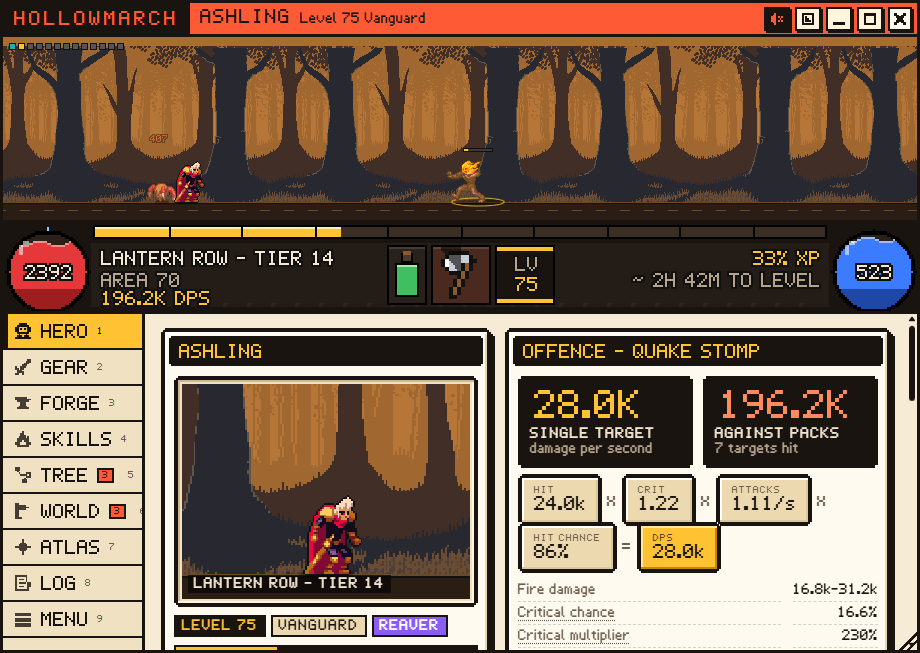
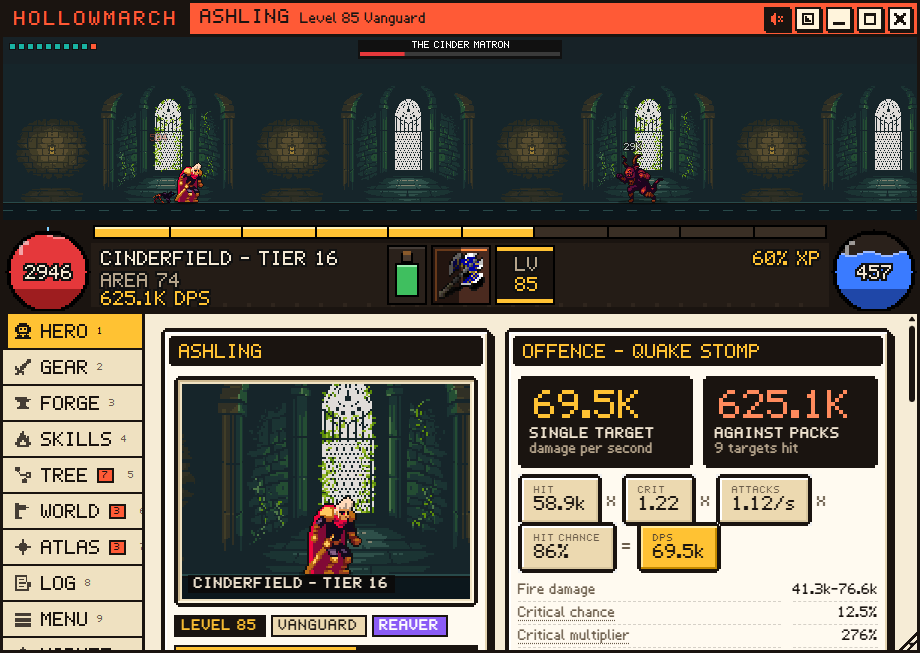
docs: round five shots in the READMEs (Market, sockets, echoes, the Rekindling; a Russian hero)
Taken from the shipped (minified) build in headless Chrome. The harness and
dev/play.html take ?shipped=1 to run that file; the arpg README says what the
build writes. A duplicated language bullet is gone.

diff --git a/dev/harness.html b/dev/harness.html
@@ -21,6 +21,7 @@
     ?noglyph=1      no orb glyph to borrow (the HUD falls back to its own diamond)
     ?pet=1          switch the Orbling addon on (view=addon:pet opens it); window.__orbling pokes its state
     ?arpg=1         switch Hollowmarch on (view=addon:arpg opens its card); loads ../arpg/dist/arpg.js
+    ?shipped=1      load the minified src/addons/arpg.js that ships with the agent instead
 -->
 <style>
   :root { --background-base-lower: #1e1f22; }
@@ -183,9 +184,9 @@
       const a = document.createElement("script");
       a.src = "../src/addons/pet.js";
       a.onload = () => {
-        // Built addons outside src/ (arpg/dist) load the same way the launcher's addons folder does.
+        // Hollowmarch: the readable build (arpg/dist), or with ?shipped=1 the minified copy in src/addons.
         const g = document.createElement("script");
-        g.src = "../arpg/dist/arpg.js";
+        g.src = qs.get("shipped") ? "../src/addons/arpg.js" : "../arpg/dist/arpg.js";
         const done = () => {
           const view = qs.get("view");
           if (view) setTimeout(() => window.__questAgent?.ui?.show(view), 300);

diff --git a/arpg/README.md b/arpg/README.md
@@ -34,8 +34,6 @@ It has nothing to do with quests: it never reads quest data or orbs.
   Wandering Market (a Pedlar and a Jeweller with stock that rotates).
 - An ending: twelve echoes of the day the sun fell, three sun shards, and the
   Rekindling - relight the sun and start a new dawn, keeping the collection.
-- English, Russian and Ukrainian (the hub's language), in a pixel font with
-  Cyrillic.
 - A 129-node passive tree with keystones.
 - Endgame: maps tier 1-16 with mods, the endless Depths past tier 16, an
   atlas tree and four pinnacle bosses.
@@ -43,6 +41,13 @@ It has nothing to do with quests: it never reads quest data or orbs.
   comes from), compare deltas on every item and support.
 - English, Russian and Ukrainian, everything included (story, items, the
   chronicle, the pixel font's Cyrillic); it follows Quest Agent's language.
+
+<p align="center">
+  <img src="docs/shots/12-market.png" width="420" alt="The Wandering Market: the Pedlar's gear for your weakest slots, the Jeweller's stones, a rotation timer">
+  <img src="docs/shots/13-sockets.png" width="420" alt="The Forge with a socketed weapon on the anvil: set, swap or remove ember stones, drill another socket">
+  <img src="docs/shots/14-echoes.png" width="420" alt="The chronicle's echoes: voices from the day the sun fell, left by map bosses and pinnacles">
+  <img src="docs/shots/15-rekindling.png" width="420" alt="The Rekindling card: three sun shards gathered, ready to relight the sun">
+</p>
 
 ## Install (Windows, with Discord Quest Agent)
 
@@ -91,9 +96,13 @@ Requirements: Node 20+.
 
     cd arpg
     npm install
-    npm run check      # typecheck + 100-odd tests + build (dist/arpg.js, ASCII-checked)
+    npm run check      # typecheck + 200-odd tests + build (ASCII-checked)
     npm run balance -- 48 3 strider   # headless bot plays 3 heroes for 48 simulated hours
 
+- The build writes two files: `dist/arpg.js` (readable, for the pages below)
+  and `../src/addons/arpg.js` (minified, the one that ships with the agent). Both
+  carry the ru/uk tables packed (deflate + base64, `src/i18n/pack.ts`); add
+  `&shipped=1` to either page to run the shipped file.
 - `src/core` is the pure, deterministic game (no DOM, no clocks, seeded RNG).
   `src/ui` is the Shadow DOM window, `src/platform` the IndexedDB/KV glue.
 - Browser: `python dev/serve.py` from the repository root, then open

diff --git a/README.ru.md b/README.ru.md
@@ -204,7 +204,7 @@ Discord показывает квесты примерно за последни
 ### Дополнения: Hollowmarch, idle-экшен-RPG
 
 <p align="center">
-  <img src="arpg/docs/shots/05-hero.png" width="640" alt="Hollowmarch: полоса боя над листом персонажа">
+  <img src="arpg/docs/shots/05-hero-ru.png" width="640" alt="Hollowmarch: полоса боя над листом персонажа">
 </p>
 
 **Hollowmarch** - небольшая экшен-RPG, которая играет сама в собственном окне. Вы собираете

diff --git a/README.md b/README.md
@@ -193,6 +193,9 @@ Its state lives inside Discord next to the settings.
 
 <p align="center">
   <img src="arpg/docs/shots/05-hero.png" width="640" alt="Hollowmarch: the battle strip over the character sheet">
+  <br>
+  <img src="arpg/docs/shots/12-market.png" width="316" alt="Hollowmarch's Wandering Market: a Pedlar and a Jeweller with rotating stock">
+  <img src="arpg/docs/shots/15-rekindling.png" width="316" alt="Hollowmarch's ending: three sun shards and the Rekindling">
 </p>
 
 **Hollowmarch** is a small action RPG that plays itself in a window of its own. You build
